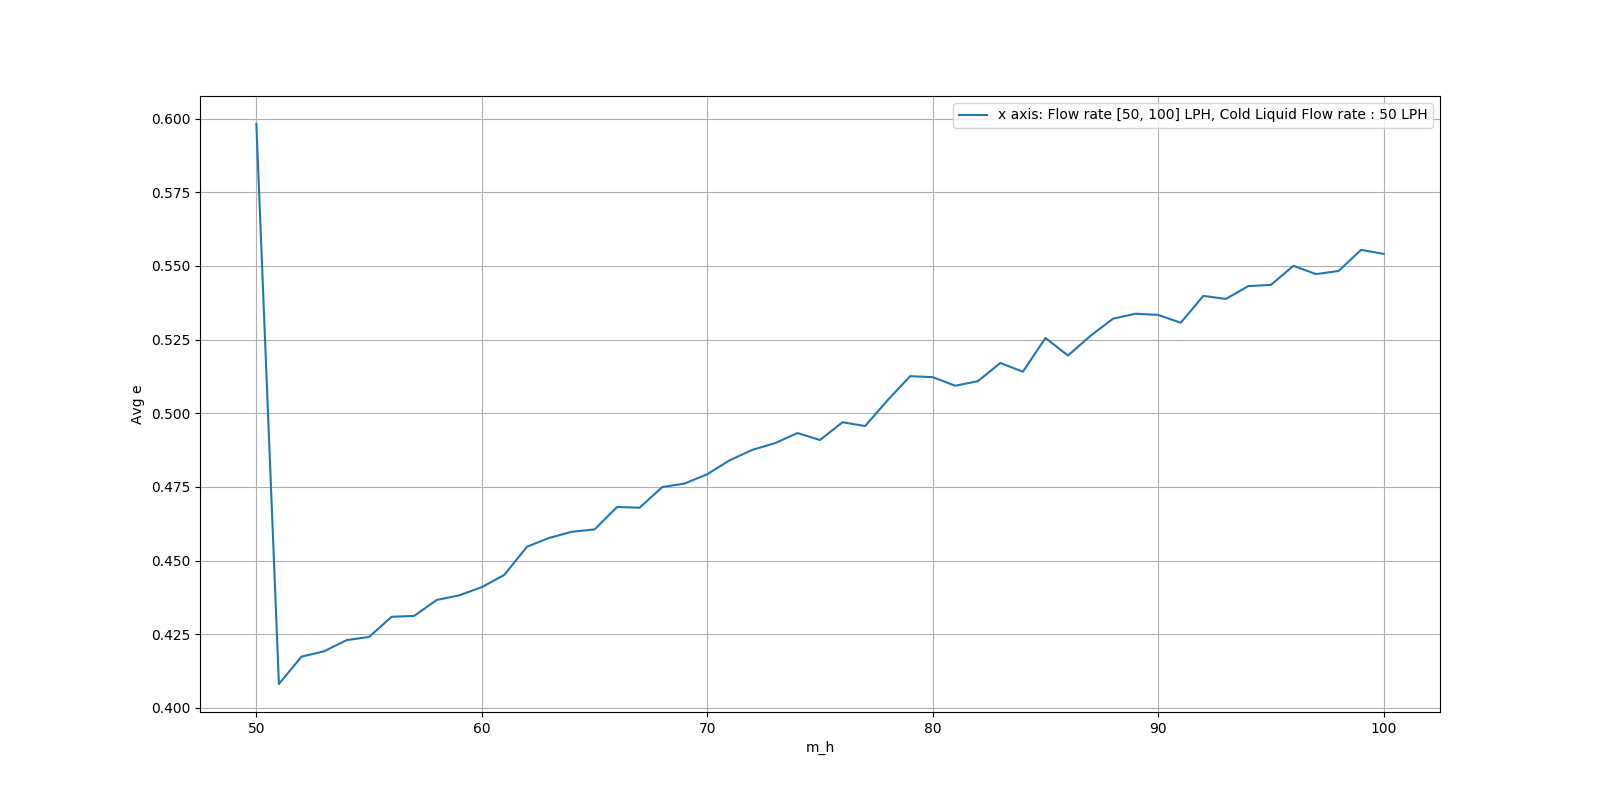
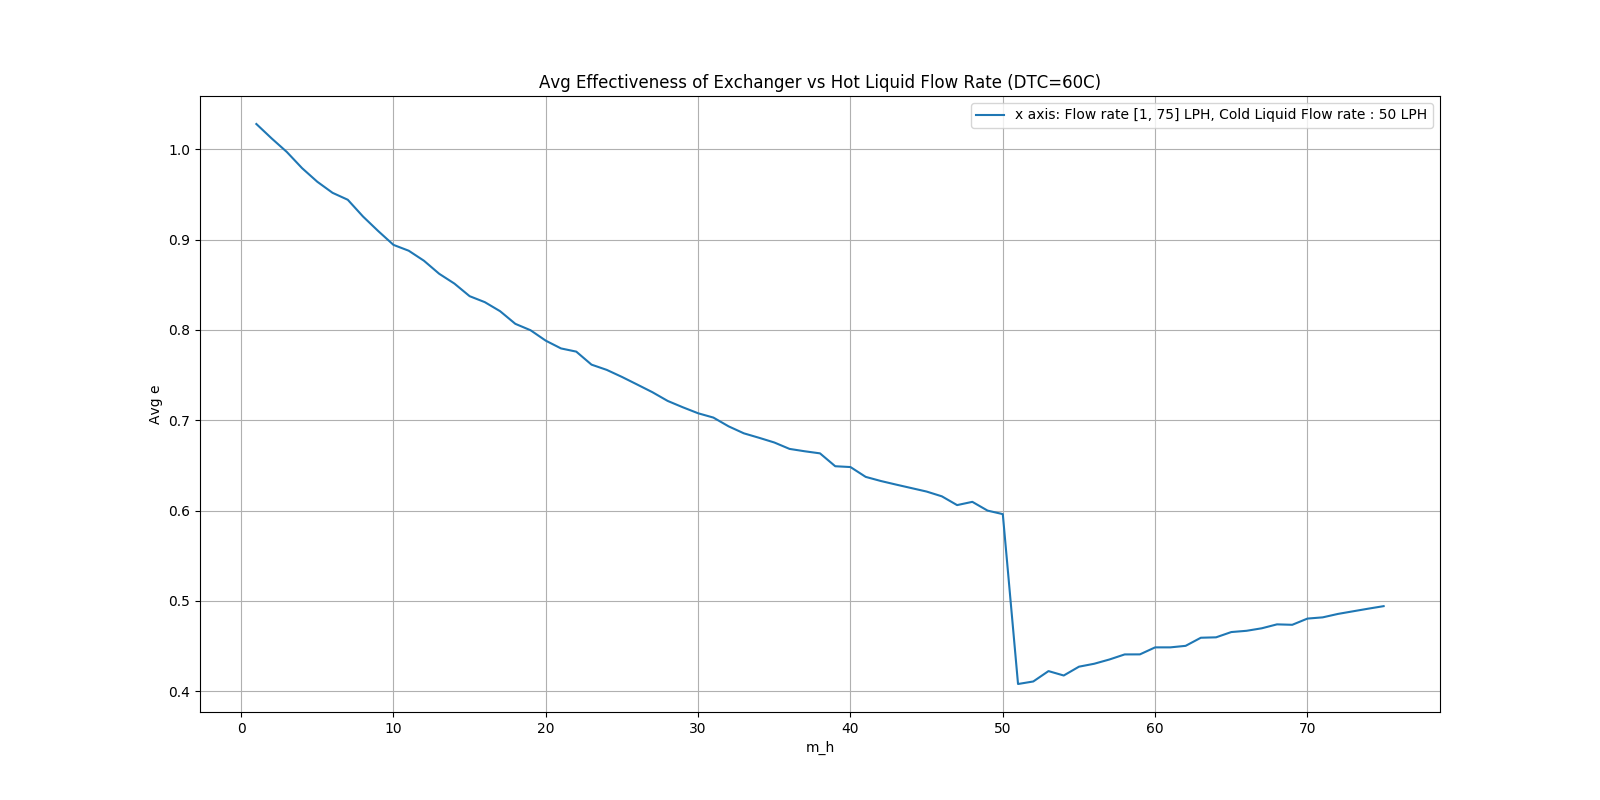
new(1) (U,e) vs m_h

diff --git a/exp1/main.py b/exp1/main.py
@@ -11,12 +11,12 @@ def show(x, y, title='Avg Overall Heat Transfer Coeff of Exchanger vs DTC', xlab
     plt.ylabel(ylabel)
     plt.grid(True)
     plt.plot(x, y)
-    plt.legend(['x axis: Flow rate [1, 75] LPH, Hot Liquid Flow rate : 75 LPH'])
+    plt.legend(['x axis: Flow rate [1, 75] LPH, Cold Liquid Flow rate : 50 LPH'])
     plt.title(title)
     plt.savefig('./results/' + saveas)
     plt.show()
 
-def run(T, T_h_i, T_c_i, T_h_o, T_c_o, dtc, m_c, flag=1):
+def run(T, T_h_i, T_c_i, T_h_o, T_c_o, dtc, m_h, flag=1):
     _U  = list(map(lambda w, x, y, z: U(m_c, c_p, w, x, y, z, D_o, N, L), T_h_i, T_c_i, T_h_o, T_c_o))
     _e  = list(map(lambda w, x, y, z: effectiveness(m_h, m_c, c_p, w, x, y, z), T_h_i, T_h_o, T_c_i, T_c_o))
     #print("DTC: {0} , AVERAGE U: {1:.2f}".format(dtc, sum(_U) / len(_U)))
@@ -27,21 +27,21 @@ def run(T, T_h_i, T_c_i, T_h_o, T_c_o, dtc, m_c, flag=1):
         return sum(_e) / len(_e)
 
 
-def main(DTC, m_c):
+def main(DTC, m_h):
     # theoretical outlet temperatures
     avg_U = list()
     avg_e = list()
     dtc = DTC
-    for m in m_c:
-        T_th = find_T_o(m_h, m, dtc, CWT)
+    for m in m_h:
+        T_th = find_T_o(m, m_c, dtc, CWT)
         T_h_i = gen_T_h_i(dtc)
         T_c_i = gen_T_c_i(CWT)
         T_h_o = gen_T_o(T_th)
         T_c_o = gen_T_o(T_th)
         avg_U.append(run(T_th, T_h_i, T_c_i, T_h_o, T_c_o, dtc, m))
         avg_e.append(run(T_th, T_h_i, T_c_i, T_h_o, T_c_o, dtc, m, flag=0))
-    show(m_c, avg_U, title='Avg Overall Heat Transfer Coeff vs Cold Liquid Flow Rate (DTC=60C)', xlabel='m_c', saveas='Uvsm_c.png')
-    show(m_c, avg_e, title='Avg Effectiveness of Exchanger vs Cold Liquid Flow Rate (DTC=60C)', xlabel='m_c', ylabel='Avg e', saveas='evsm_c.png')
+    show(m_h, avg_U, title='Avg Overall Heat Transfer Coeff vs Hot Liquid Flow Rate (DTC=60C)', xlabel='m_h', saveas='Uvsm_h.png')
+    show(m_h, avg_e, title='Avg Effectiveness of Exchanger vs Hot Liquid Flow Rate (DTC=60C)', xlabel='m_h', ylabel='Avg e', saveas='evsm_h.png')
 
 
 if __name__ == "__main__":
@@ -49,8 +49,8 @@ if __name__ == "__main__":
     CWT = 20    # cold water temperature (inlet)
     #DTC = [ i for i in range(90, CWT, -1) ]     # hot water temperature (inlet)
     DTC = 60
-    m_h = 75
-    #m_h = [ i for i in range(100, 49, -1) ] #75   # flow rate for hot water  (kg/s) (check TODO)
-    #m_c = 50   # flow rate for cold water (kg/s) (check TODO)
-    m_c = [ i for i in range(1, 75, 1) ] #75   # flow rate for hot water  (kg/s) (check TODO)
-    main(DTC, m_c)
+    #m_h = 75
+    m_h = [ i for i in range(75, 0, -1) ] #75   # flow rate for hot water  (kg/s) (check TODO)
+    m_c = 50   # flow rate for cold water (kg/s) (check TODO)
+    #m_c = [ i for i in range(1, 75, 1) ] #75   # flow rate for hot water  (kg/s) (check TODO)
+    main(DTC, m_h)
